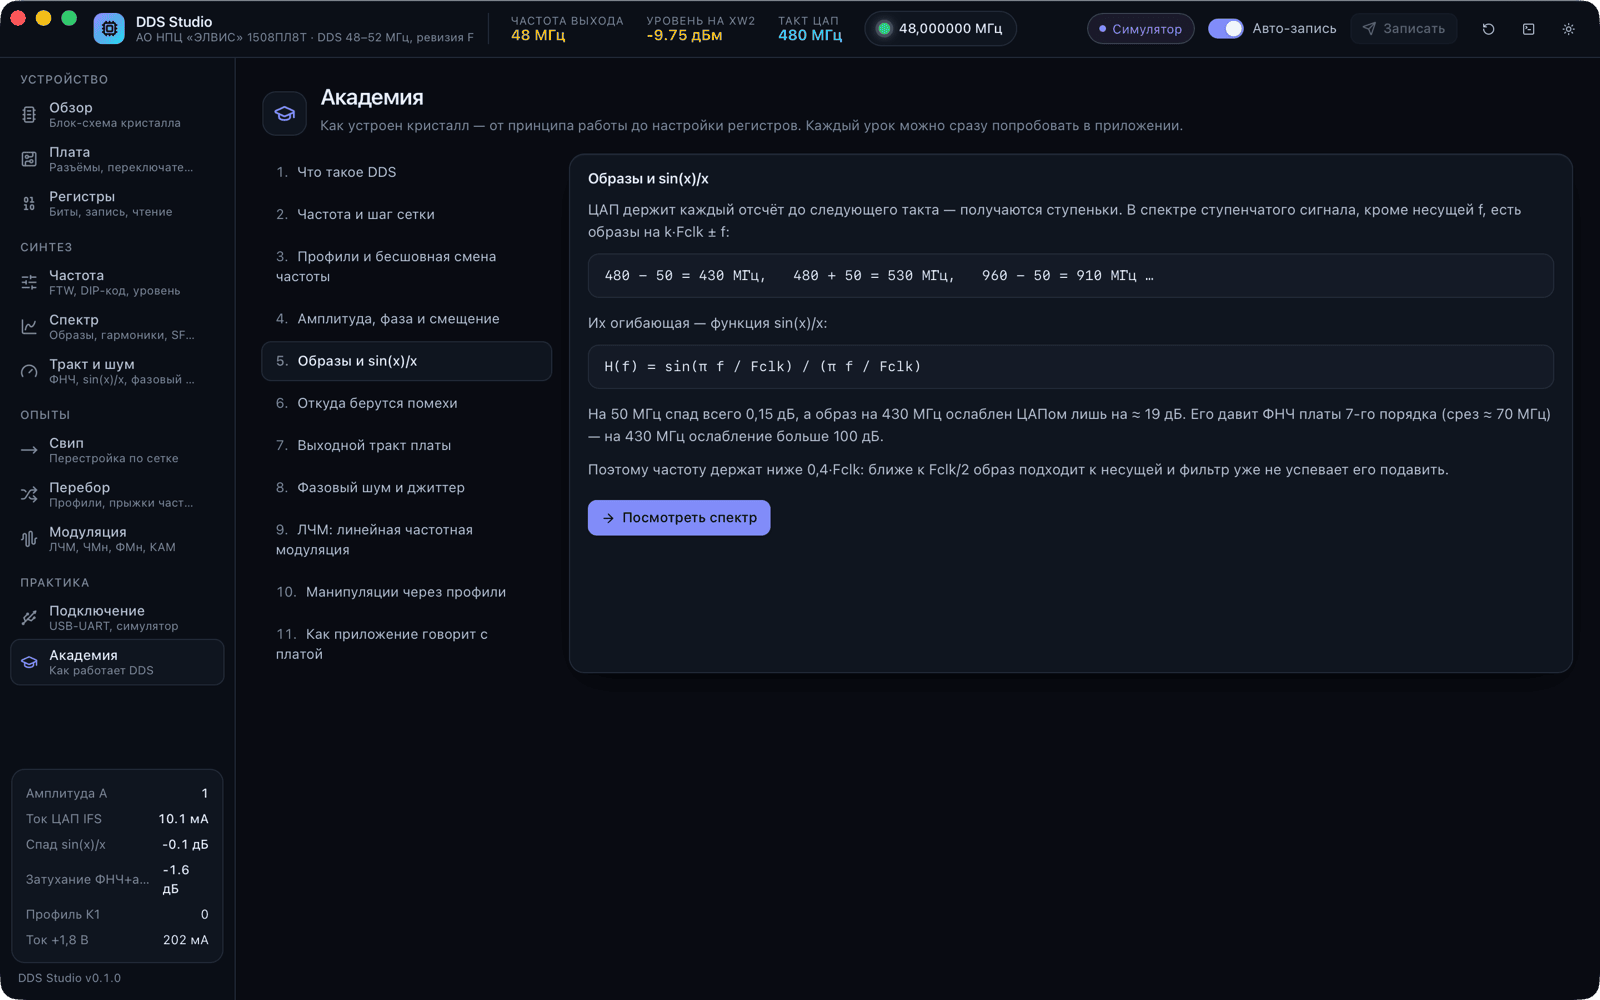
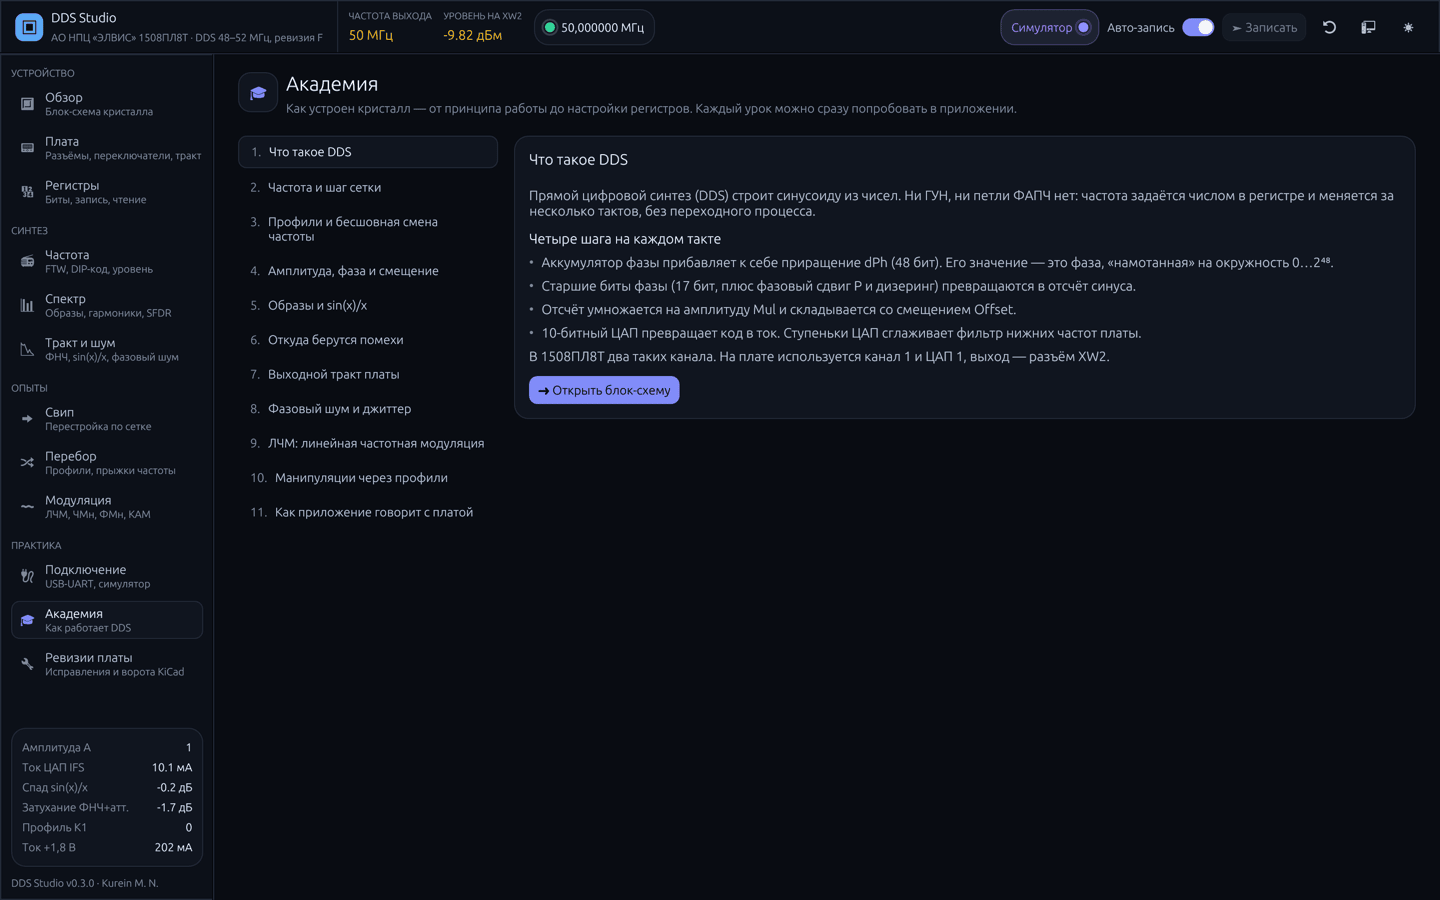
README: галерея — снимки настольного приложения 0.3.0 (egui), раздел «Ревизии платы»; тур скриншотов всегда снимает 1440×900

diff --git a/studio/crates/dds-egui/src/main.rs b/studio/crates/dds-egui/src/main.rs
@@ -32,6 +32,8 @@ fn main() -> eframe::Result {
             .with_app_id("com.dds-studio.egui")
             .with_inner_size([1440.0, 900.0])
             .with_min_inner_size([1024.0, 680.0]),
+        // the screenshot tour always shoots at 1440×900, not the size the user left
+        persist_window: std::env::var_os("DDS_SHOTS").or_else(|| std::env::var_os("APP_SHOTS")).is_none(),
         ..Default::default()
     };
     eframe::run_native("DDS Studio", options, Box::new(|cc| Ok(Box::new(app::App::new(cc)))))

diff --git a/studio/crates/dds-egui/src/shots.rs b/studio/crates/dds-egui/src/shots.rs
@@ -75,6 +75,10 @@ impl Shots {
             self.frames = 0;
             self.pending = false;
         } else if !self.pending {
+            if self.idx == 0 && self.frames == 0 {
+                // same frame for every run, whatever size the window was left at
+                ctx.send_viewport_cmd(egui::ViewportCommand::InnerSize(egui::vec2(1440.0, 900.0)));
+            }
             self.frames += 1;
             // let layout, animations and the engine's answers settle
             if self.frames > 25 {

diff --git a/README.md b/README.md
@@ -98,7 +98,7 @@ xattr -dr com.apple.quarantine "/Applications/DDS Studio.app"
 
 <p align="center">
   <img src="studio/docs/images/screens/01-overview.png" alt="DDS Studio — обзор кристалла" width="100%">
-  <br><sub>Живая блок-схема 1508ПЛ8Т: нажмите на блок — справа его параметры и поля регистров.</sub>
+  <br><sub>Живая блок-схема 1508ПЛ8Т: нажмите на блок — справа его параметры и поля регистров. Снимки — DDS Studio 0.3.0 (egui).</sub>
 </p>
 
 <table>
@@ -124,7 +124,10 @@ xattr -dr com.apple.quarantine "/Applications/DDS Studio.app"
   </tr>
   <tr>
     <td><img src="studio/docs/images/screens/12-academy.png" alt="Академия"><br><sub><b>Академия.</b> 11 уроков от принципа DDS до протокола платы, из каждого — переход к опыту.</sub></td>
-    <td><img src="studio/docs/images/screens/13-spectrum-light.png" alt="Светлая тема"><br><sub><b>Светлая тема.</b> Переключается одной кнопкой в верхней панели.</sub></td>
+    <td><img src="studio/docs/images/screens/14-eco.png" alt="Ревизии платы"><br><sub><b>Ревизии платы.</b> Как исправить плату в KiCad: мастер изменения T1–T8, матрица влияния, ворота ERC/DRC с командами.</sub></td>
+  </tr>
+  <tr>
+    <td colspan="2"><img src="studio/docs/images/screens/13-spectrum-light.png" alt="Светлая тема"><br><sub><b>Светлая тема.</b> Переключается одной кнопкой в верхней панели.</sub></td>
   </tr>
 </table>
 
